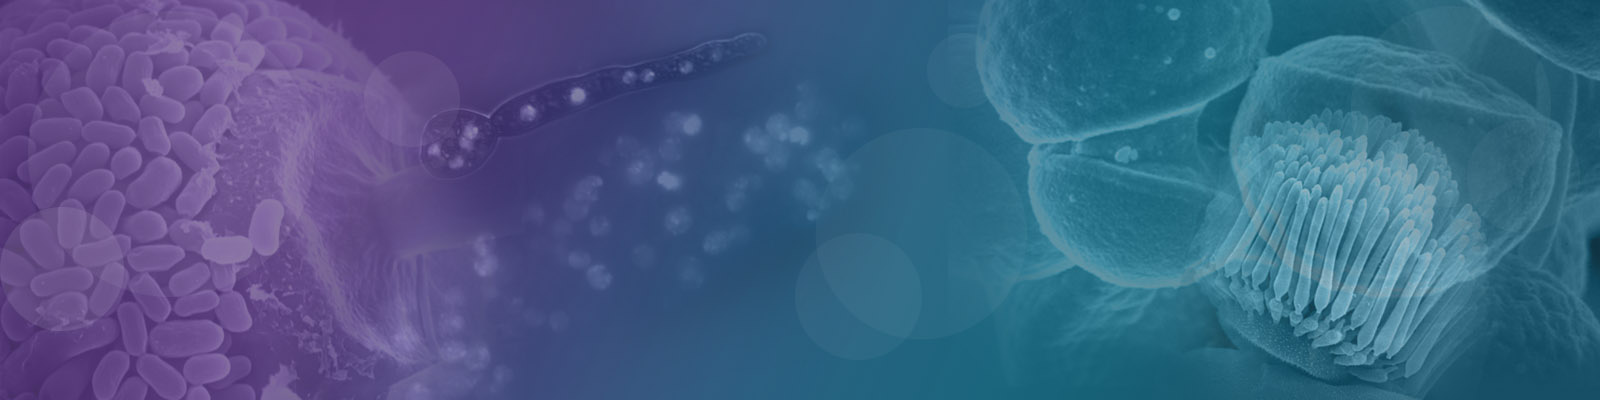
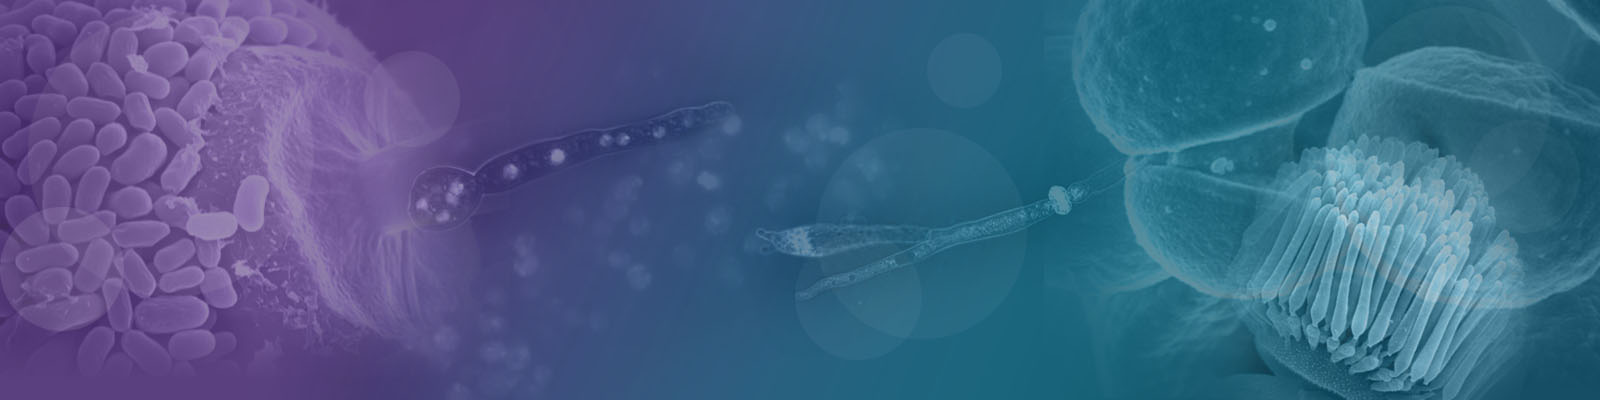
new header backgrounds for Fungi, TriTryp and VEuPath

diff --git a/packages/sites/genomics-site/webapp/wdkCustomization/js/client/components/homepage/VEuPathDBHomePage.tsx b/packages/sites/genomics-site/webapp/wdkCustomization/js/client/components/homepage/VEuPathDBHomePage.tsx
@@ -585,8 +585,8 @@ const useHeaderMenuItems = (
             {
               key: 'submission-instructions',
               display: 'How to submit data to us',
-              type: 'webAppRoute',
-              url: '/dataSubmission.jsp'
+              type: 'reactRoute',
+              url: makeStaticPageRoute('/dataSubmission.html')
             },
             {
               key: 'submission-policy',
